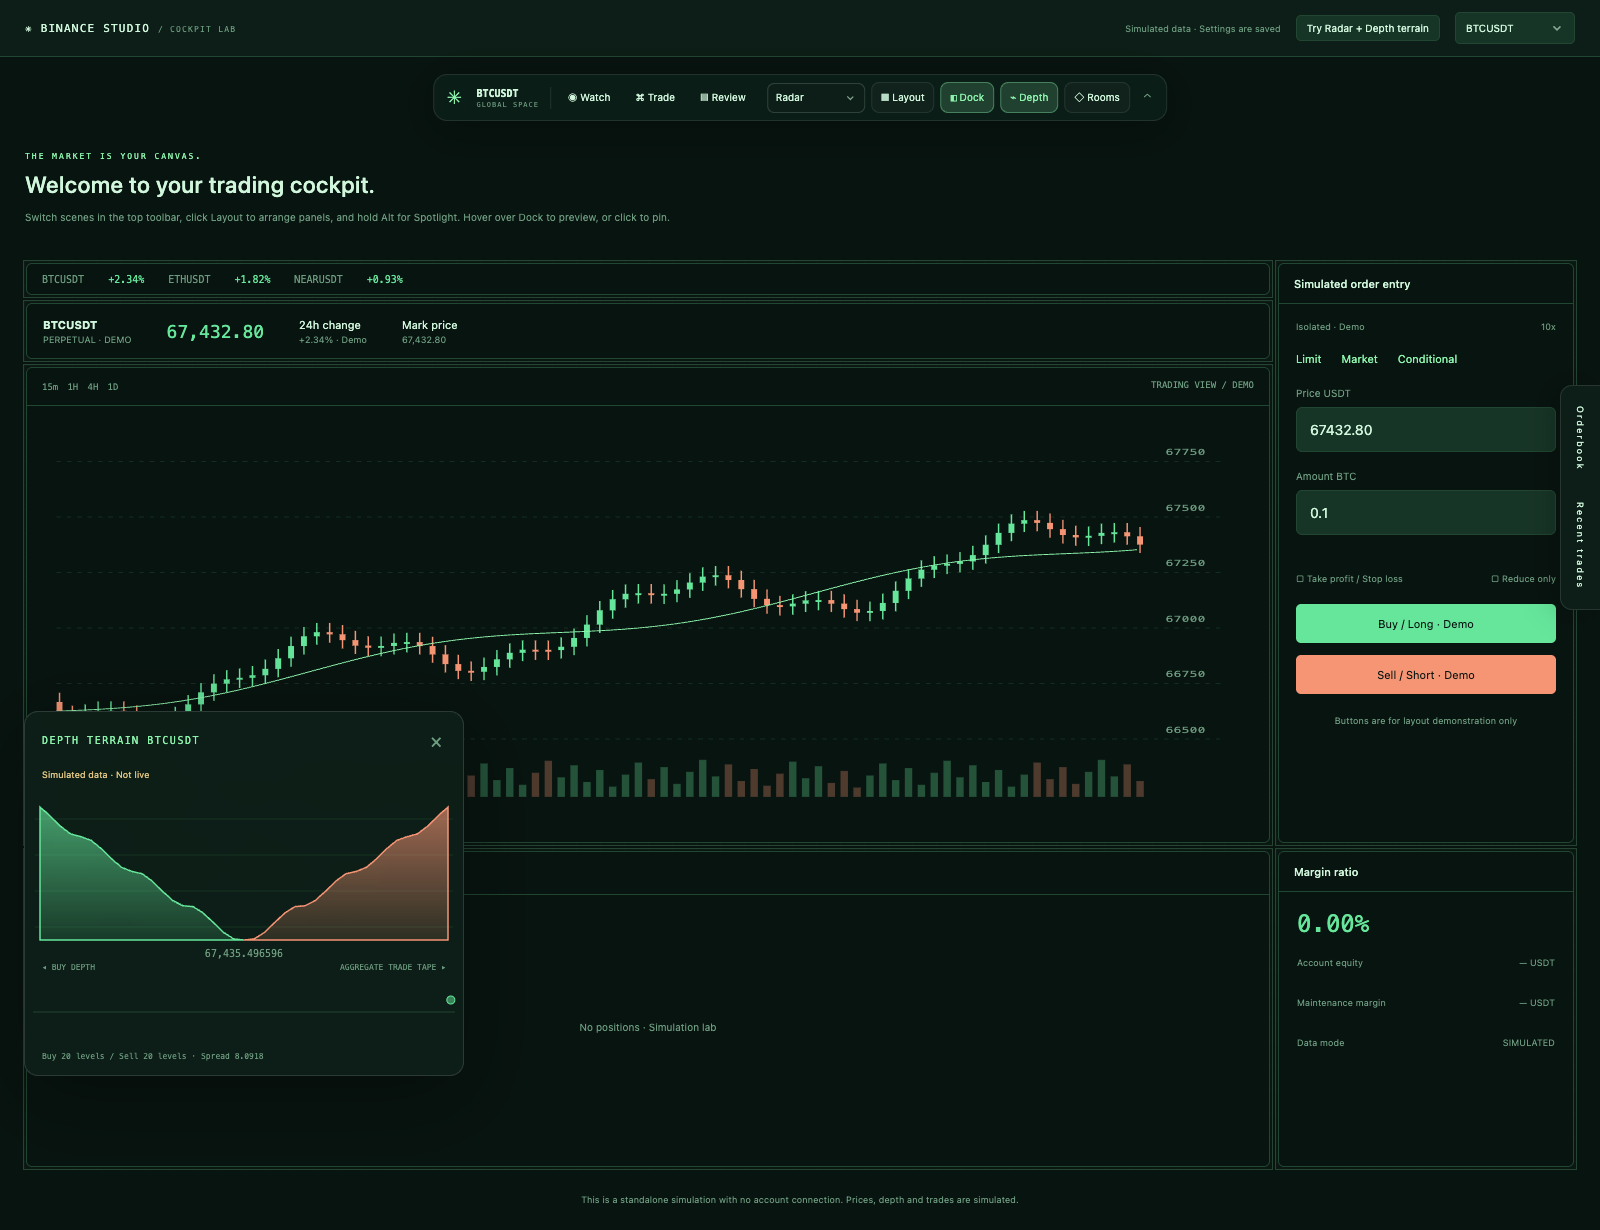
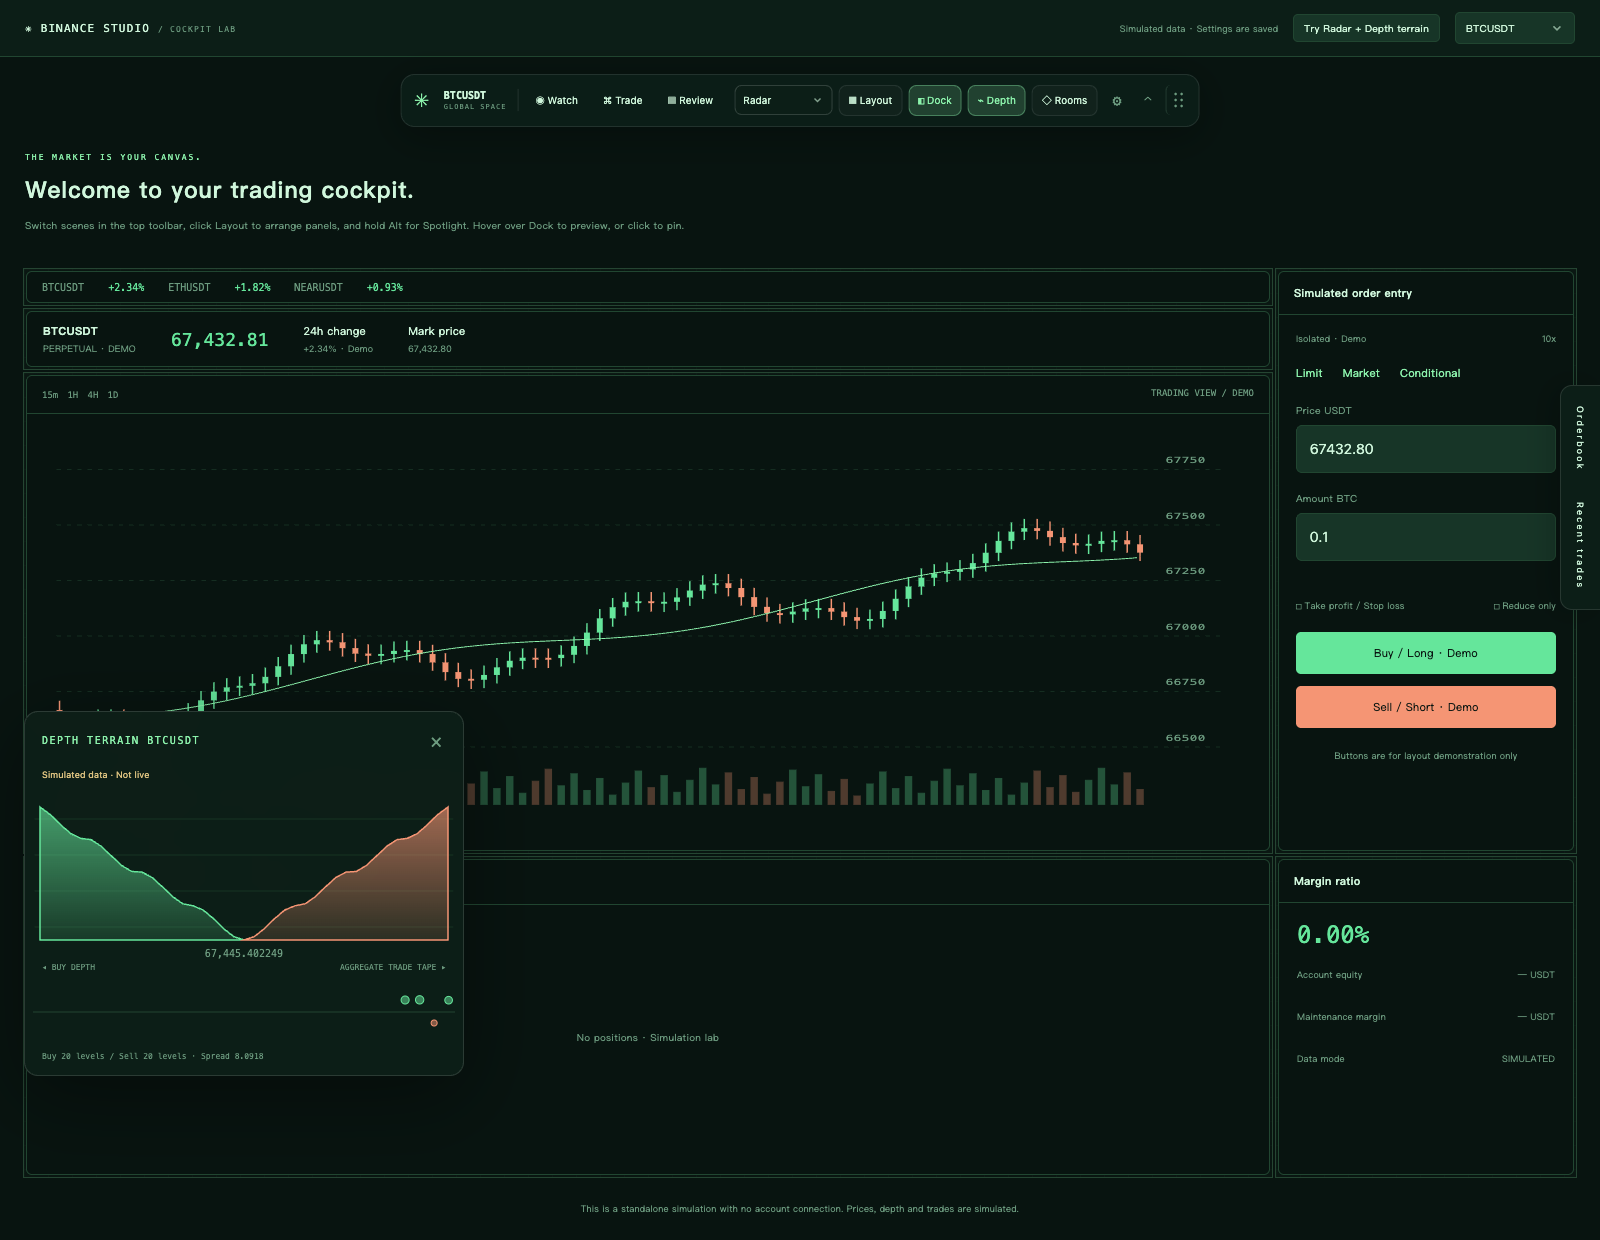
docs: expand bilingual README screenshot galleries
Show toolbar customization, text finishes, digit transitions, layout history, pair rooms, and Arctic and Mecha skins.

Refresh both languages and add commands to capture all 22 screenshots in isolated extension profiles.

diff --git a/README.zh-CN.md b/README.zh-CN.md
@@ -4,7 +4,14 @@
 
 一个本地优先的 Chrome / Edge 浏览器扩展，用于定制**币安全球站 `https://www.binance.com`** 的主题与交易界面。
 
+- **工具栏随手安排**：右侧把手拖动、位置记忆、贴边自动隐藏，自定义功能显示、顺序、大小与透明度。
+- **工作区自由布局**：12 列空间编辑器、最多 50 步撤销与重做、边缘 Dock，以及交易对专属房间。
+- **报价更有辨识度**：十种数字动画、四种变化光效，主价格和交易对名称可选三种文字质感。
+- **九套主题保持可读**：支持的按钮会按实际底色自动修正文字对比度。
+
 ## 界面预览
+
+以下截图来自扩展的模拟页面，价格、深度、成交及房间便签均为示例，不连接账户。[英文 README](README.md) 提供对应的英文界面截图。
 
 ### 定制控制台
 
@@ -19,19 +26,53 @@
 <img src="docs/screenshots/chrome-popup.png" alt="Binance Studio Chrome 插件弹窗：九套主题、专注模式、启用开关与定制工作台入口" width="350">
 
 <details>
-<summary>查看价格动效、交易驾驶舱与空间编辑器</summary>
+<summary>查看价格动画与三种文字质感</summary>
 
-**价格动效控制台**：数字切换与光效自由组合，支持 NEARUSDT 模拟涨跌预览。
+**价格动效控制台**：数字切换、变化光效与文字质感自由组合，支持 NEARUSDT 模拟涨跌预览。图中选择了「极光流彩」。
 
-![价格动效设置：三套快捷组合、数字切换方式、变化光效、时长与模拟报价预览](docs/screenshots/price-options.png)
+![价格动效设置：极光流彩主价格、数字切换方式、变化光效、时长与 NEARUSDT 模拟报价预览](docs/screenshots/price-options.png)
+
+**极光流彩、金属镀铬、金箔流光**：同时展示主价格与交易对名称的真实 CSS 效果，点击「原始文字」即可还原。
+
+<img src="docs/screenshots/text-finishes.png" alt="文字质感卡片：极光流彩、金属镀铬与金箔流光，分别展示价格和 NEARUSDT 名称" width="360">
+
+**数字切换菜单**：新增柔和叠化、左右推移、聚焦显影、光幕揭示、立体转轮和碎片聚合。图中滚动到后面的选项，共有十种动画及即时切换可选。
+
+<img src="docs/screenshots/price-transitions.png" alt="展开的数字切换菜单：后半部分动效选项，当前选择碎片聚合" width="320">
+
+</details>
+
+<details>
+<summary>查看驾驶舱、工具栏自定义、布局撤销与交易对房间</summary>
 
 **Radar 驾驶舱**：场景切换、边缘 Dock 与动态盘口地形。截图来自模拟体验页，价格、深度与成交均为示例数据。
 
-![Radar 模拟驾驶舱：顶部场景控制条、右侧边缘 Dock 与悬浮动态盘口地形](docs/screenshots/cockpit-lab.png)
+![Radar 模拟驾驶舱：带六点拖动把手的工具栏、右侧边缘 Dock 与悬浮动态盘口地形](docs/screenshots/cockpit-lab.png)
 
-**空间编辑器**：在 12 列画布中拖动、缩放面板，也可以输入精确格位。
+**工具栏自定义**：控制功能显示与顺序、纯图标模式、大小、透明度及贴边自动隐藏。工具栏与深度窗口的位置保存在本机，按住右侧六点把手即可拖动工具栏。
 
-![空间编辑器：交易面板网格、拖动缩放控件与底部精确位置设置](docs/screenshots/spatial-editor.png)
+<img src="docs/screenshots/toolbar-customization.png" alt="工具栏设置：贴边自动隐藏、纯图标模式、大小、透明度、功能排序与窗口归位" width="450">
+
+**空间编辑器**：在 12 列画布中拖动、缩放面板，也可以输入精确格位，支持最多 50 步撤销与重做。图中草稿的撤销和重做按钮均可用。
+
+![空间编辑器：缩放后的图表卡片、可用的撤销重做按钮，以及底部精确格位输入框](docs/screenshots/spatial-editor.png)
+
+**交易对专属房间**：为当前市场保存皮肤、布局和私人便签。图中是已保存的 BTC 房间及示例便签。
+
+<img src="docs/screenshots/pair-room.png" alt="已保存的 BTC 雷达观察室：房间名称、示例私人便签与自动载入按钮" width="450">
+
+</details>
+
+<details>
+<summary>查看更多驾驶舱皮肤：Arctic 冰蓝与 Mecha 机甲</summary>
+
+**Arctic 极地冰蓝**：冰蓝强调色与圆角面板。
+
+![Arctic 模拟驾驶舱：冰蓝强调色、圆角交易面板与盘口地形](docs/screenshots/skin-arctic.png)
+
+**Mecha 机甲琥珀**：琥珀强调色、等宽字体与直角面板，可在悬浮工具栏中切换同一工作区的皮肤。
+
+![Mecha 模拟驾驶舱：琥珀强调色、等宽文字与直角面板边框](docs/screenshots/skin-mecha.png)
 
 </details>
 
@@ -59,7 +100,7 @@
 
 语言选择保存在本机，并同步到已打开的扩展页面和页内驾驶舱，覆盖控件、预览、使用指南、错误提示、工具提示和无障碍标签。语言是全局偏好，交易对房间不会覆盖它；币安页面语言、用户输入的房间名和私人便签保持原样。独立预览单独保存自己的语言选择。
 
-## v0.3 价格动效
+## 价格与文字特效
 
 新增三种可选文字质感：**极光流彩、金属镀铬、金箔流光**。在「价格动效 → 文字质感」预览和选择，点击「原始文字」关闭。只装饰已识别的主价格、交易对名称和驾驶舱交易对标签，可与数字切换及涨跌光效组合；浅色主题使用较深的渐变色，减少动态效果时保留静态渐变，后台标签页暂停动画。保留原有文本节点、字号与下单输入。效果灵感分别来自 Colorion 的 [Borealis](https://text-effects.colorion.co/effects/aurora-gradient-text-animation/)、[Chromia](https://text-effects.colorion.co/effects/chrome-text-effect/) 和 [Gold-Foil](https://text-effects.colorion.co/effects/gold-text-effect/)，使用独立编写并限定作用范围的 CSS，无外部运行时依赖。
 
@@ -72,7 +113,7 @@
 
 适配已核对的合约页 `.ticker-wrap` 主价格；涨跌额与百分比只使用较轻的光效。价格由原网页更新，动效以短暂的显示层呈现，保留原有文本节点、内联样式与交易输入。连续报价直接替换当前动画，缺失报价会清除显示层；切换交易对后重新建立基准，尊重系统「减少动态效果」，后台隐藏及暂停时恢复静态显示。房间保存与配置导入导出包含动效设置。
 
-## v0.2 驾驶舱
+## 交易驾驶舱
 
 在交易页面顶部的悬浮条中使用新功能。也可以在设置页点击「私人驾驶舱 → 进入模拟驾驶舱」体验，或在本地预览服务中打开 `/lab.html`。模拟页明确使用示例价格、深度与成交；其中的配置调整同样会保存。
 
@@ -141,6 +182,8 @@ npm run test:browser
 浏览器测试实际加载未打包的 Manifest V3 扩展，验证原有功能以及空间编辑、场景过渡、减少动态效果、Dock、聚光灯、交易对房间、SPA 切换、行情重连 / 关闭和模拟体验页。Binance 域名请求返回 `tests/fixtures` 中的重建页面；行情测试在临时测试浏览器的扩展隔离环境中注入 WebSocket 替身，使用公开流格式的固定数据，不访问账户、不提交交易。截图与测试结果在 `output/verification`。CI 在 Node.js 20 和 22 上执行资源检查、单元测试、打包与六组浏览器测试。`npm run test:cockpit` 可单独运行驾驶舱验证。
 
 `npm run test:prices` 单独验证价格动效：真实加载扩展，使用按只读观察重建的合约报价结构，覆盖动效组合、连续跳价、缺失报价、节点替换、交易对切换、减少动态效果、独立关闭、全局暂停及响应式预览。后台恢复逻辑使用模拟的可见性事件验证。
+
+安装 Playwright Chromium 后，运行 `npm run screenshots` 可在独立扩展环境中重新生成全部 22 张 README 截图，并检查英文界面翻译。也可用 `npm run screenshots:en` 或 `npm run screenshots:zh` 单独更新对应语言的 11 张截图。
 
 可选环境变量 `BROWSER_EXECUTABLE` 指定支持扩展侧载的 Chromium / Chrome for Testing。较新版本的正式 Chrome 已限制命令行侧载，建议使用 Playwright Chromium。
 

diff --git a/README.md b/README.md
@@ -6,7 +6,14 @@ A local-first Chrome / Edge extension for customizing the appearance and trading
 
 The extension has no third-party runtime dependencies. The extension interface and project documentation are available in English and Mandarin (Simplified Chinese).
 
+- **Make the toolbar yours:** drag with the right-hand handle, remember positions, hide at screen edges, and customize tools, order, size and opacity.
+- **Arrange your workspace:** a 12-column editor with up to 50 undo/redo steps, edge Dock and saved rooms for each pair.
+- **Give quotes a distinct look:** ten digit animations, four lighting effects and three text finishes for the main price and pair name.
+- **Keep controls readable:** nine palettes with automatic text contrast correction for supported buttons.
+
 ## Preview
+
+Screenshots below use the extension's simulation pages. Prices, depth, trades and room notes are examples; no account is connected. The [Chinese README](README.zh-CN.md) has matching Chinese screenshots.
 
 ### Customization console
 
@@ -21,19 +28,53 @@ Switch themes, toggle focus mode, or open the full settings console from the bro
 <img src="docs/screenshots/en/chrome-popup.png" alt="Toolbar popup with nine themes, focus mode, enable switch and settings shortcut" width="350">
 
 <details>
-<summary>Price effects, trading cockpit and spatial editor</summary>
+<summary>Price animations and three text finishes</summary>
 
-**Price effects** combine digit transitions and lighting effects, with a simulated NEARUSDT ticker.
+**Price effects** combine digit transitions, lighting and text finishes, with a simulated NEARUSDT ticker. Aurora is selected in this example.
 
-![Price effects controls and a simulated NEARUSDT ticker](docs/screenshots/en/price-options.png)
+![Price effects console with Aurora text, transition controls and a simulated NEARUSDT ticker](docs/screenshots/en/price-options.png)
+
+**Aurora, Chrome and Gold foil** can decorate both the main price and the pair name. Each card shows the actual CSS effect; choose **Original text** to reset it.
+
+<img src="docs/screenshots/en/text-finishes.png" alt="Text finish cards showing Aurora, Chrome and Gold foil on the price and NEARUSDT pair name" width="360">
+
+**Digit transitions** include crossfade, horizontal push, blur-to-focus, directional wipe, 3D side rotation and four-piece assembly. This menu is scrolled to the later options; ten animations plus instant updates are available.
+
+<img src="docs/screenshots/en/price-transitions.png" alt="Open digit transition menu showing the later animation options, with four-piece assembly selected" width="320">
+
+</details>
+
+<details>
+<summary>Trading cockpit, toolbar customization, layout history and pair rooms</summary>
 
 **Radar cockpit** includes scenes, an edge Dock and an animated depth display. Prices, depth and trades in this screenshot are examples from the simulation lab.
 
-![Simulated Radar cockpit with scenes, edge Dock and a floating depth display](docs/screenshots/en/cockpit-lab.png)
+![Simulated Radar cockpit with a six-dot drag handle, scenes, edge Dock and floating depth terrain](docs/screenshots/en/cockpit-lab.png)
 
-**Spatial editor** supports dragging, resizing, and exact coordinates on a 12-column canvas.
+**Toolbar customization** controls tool visibility and order, icons-only mode, size, opacity and edge auto-hide. Toolbar and depth-window positions are remembered locally; hold the toolbar's right-hand six-dot handle to move it.
 
-![Spatial editor with draggable trading panels and coordinate controls](docs/screenshots/en/spatial-editor.png)
+<img src="docs/screenshots/en/toolbar-customization.png" alt="Toolbar settings with edge auto-hide, icons-only mode, size, opacity, tool ordering and window reset controls" width="450">
+
+**Spatial editor** supports dragging, resizing, exact coordinates and up to 50 undo/redo steps on a 12-column canvas. Both history controls are available in this draft.
+
+![Spatial editor with a resized chart tile, enabled undo and redo buttons and exact coordinate inputs](docs/screenshots/en/spatial-editor.png)
+
+**Pair rooms** save a skin, layout and private note for the selected market. This example contains a saved BTC room and a sample note.
+
+<img src="docs/screenshots/en/pair-room.png" alt="Saved BTC Radar watch room with a sample private note and automatic loading control" width="450">
+
+</details>
+
+<details>
+<summary>More cockpit skins: Arctic and Mecha</summary>
+
+**Arctic** uses cool blue accents and rounded panels.
+
+![Arctic simulated cockpit with ice-blue accents, rounded panels and depth terrain](docs/screenshots/en/skin-arctic.png)
+
+**Mecha** uses amber accents, monospace typography and square panel edges. The same workspace can switch skins from the floating toolbar.
+
+![Mecha simulated cockpit with amber accents, monospace text and square panel borders](docs/screenshots/en/skin-mecha.png)
 
 </details>
 
@@ -144,7 +185,8 @@ npm run test:browser
 | `npm run test:i18n` | Bilingual UI, language persistence, cross-page sync and input preservation |
 | `npm run test:prices` | Price effects and responsive preview tests |
 | `npm run build` | Create a clean unpacked extension and versioned ZIP in `dist/` |
-| `npm run screenshots:en` | Refresh the five English README screenshots in an isolated extension profile |
+| `npm run screenshots` | Refresh all 22 README screenshots in isolated English and Chinese extension profiles |
+| `npm run screenshots:en` / `npm run screenshots:zh` | Refresh the 11 screenshots for one language |
 
 The installed extension uses `chrome.storage.local`. The standalone preview uses `localStorage` and has separate settings; use export/import to move them. Multiple pages observe storage changes, and failed writes are reported in the UI.
 

diff --git a/CONTRIBUTING.md b/CONTRIBUTING.md
@@ -42,7 +42,7 @@ Add targeted regression coverage for behavior changes. For UI or lifecycle chang
 
 In your pull request, explain the problem, the resulting behavior and which checks you ran. Include before/after screenshots for visible UI changes. Report whether a compatibility issue was observed on a live page or only a fixture. When sharing a configuration, remove private room notes first.
 
-The English README uses `docs/screenshots/en/`; refresh its five images with `npm run screenshots:en` after installing Playwright Chromium. The capture command checks English UI text, including the cockpit's Shadow DOM. Keep the Mandarin README linked to its Chinese screenshots in `docs/screenshots/`.
+After installing Playwright Chromium, run `npm run screenshots` to refresh all 22 README images in isolated extension profiles. Use `npm run screenshots:en` or `npm run screenshots:zh` to refresh one language's 11 images. English images live in `docs/screenshots/en/`; Mandarin images live in `docs/screenshots/`. The command checks the selected language and untranslated English UI text, including the cockpit's Shadow DOM. Capture simulation pages and sample notes only.
 
 ### Report a bug
 
@@ -97,7 +97,7 @@ npm run test:browser
 
 Pull Request 请说明问题、最终行为与已执行的验证；界面改动附上前后对比截图。适配问题请区分真实页面观察与测试页面结果。分享配置前请移除私人房间便签。
 
-英文 README 使用 `docs/screenshots/en/` 中的截图。安装 Playwright Chromium 后运行 `npm run screenshots:en` 可更新五张英文截图，并检查页面及驾驶舱 Shadow DOM 的英文文字。中文 README 继续使用 `docs/screenshots/` 中的中文截图。
+安装 Playwright Chromium 后运行 `npm run screenshots`，可在独立扩展环境中更新全部 22 张 README 截图。`npm run screenshots:en` 或 `npm run screenshots:zh` 可单独更新对应语言的 11 张截图；英文位于 `docs/screenshots/en/`，中文位于 `docs/screenshots/`。脚本检查所选语言，并检查英文页面及驾驶舱 Shadow DOM 是否残留未翻译文字。只截取模拟页面及示例便签。
 
 ### 报告问题
 
